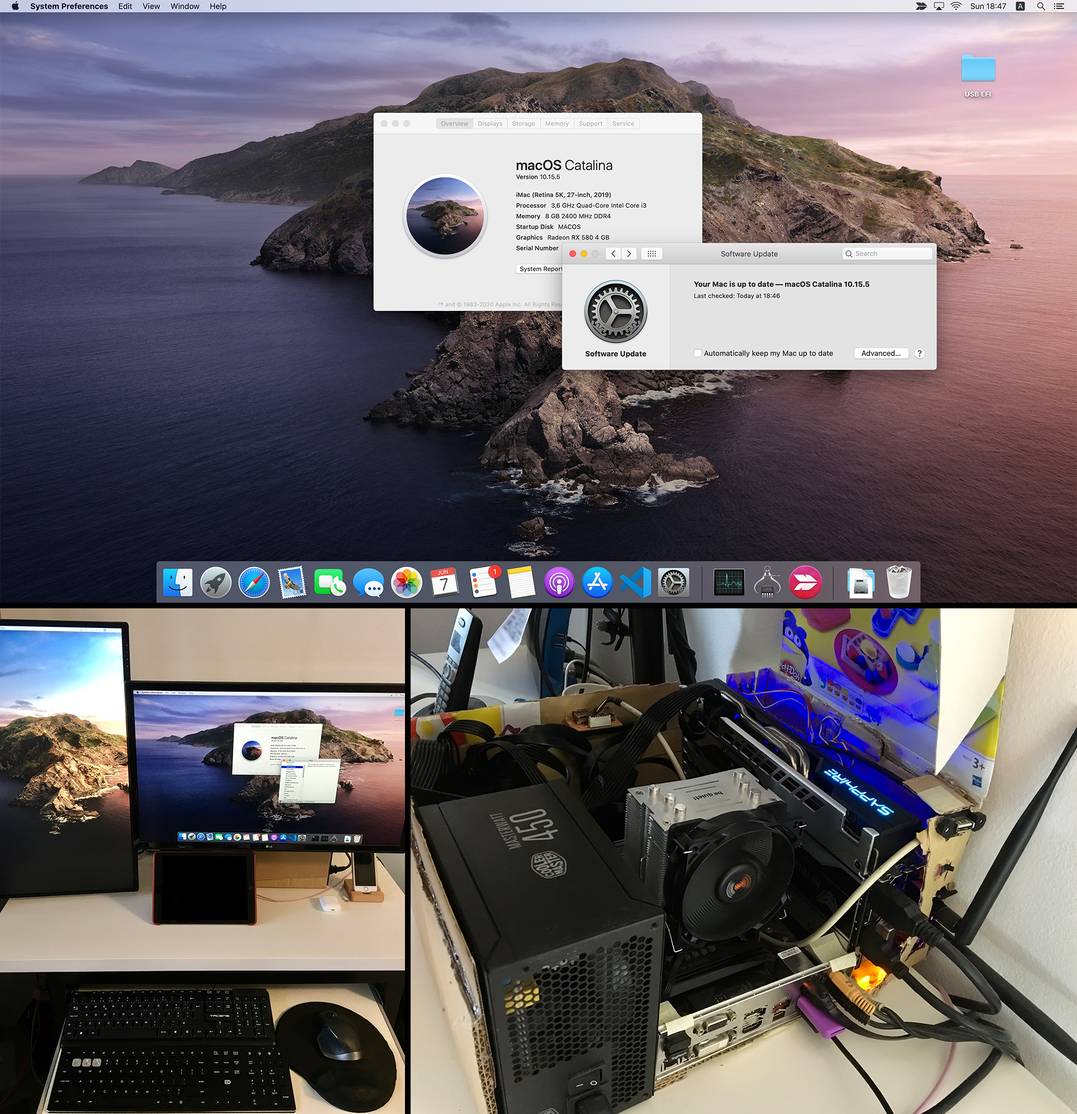
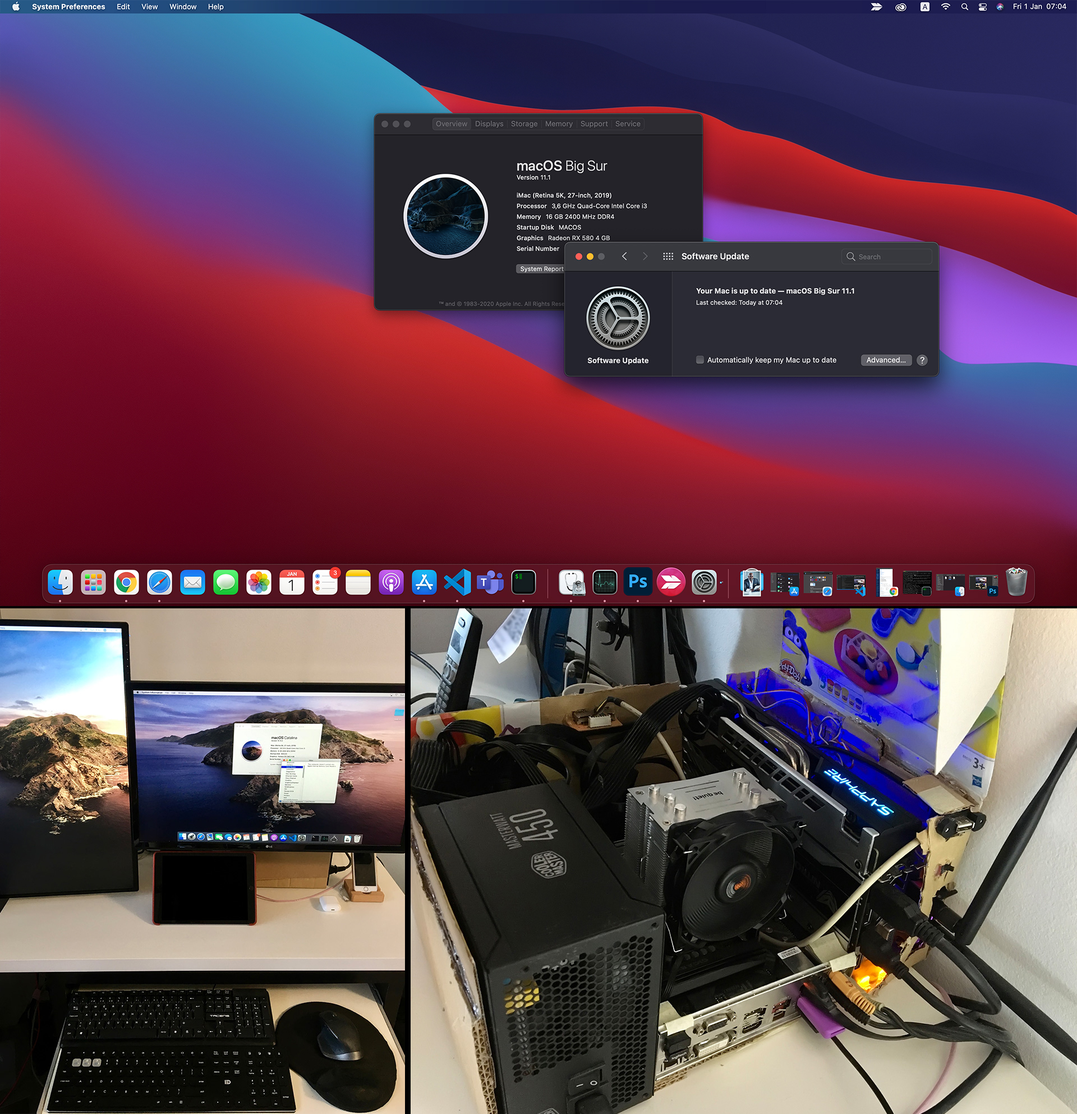
updated bigsur

diff --git a/README.md b/README.md
@@ -1,4 +1,4 @@
-# Hackintosh-Catalina-Gigabyte-B360M-D3H-i3-8100-RX580-BCM943602CS-4K-monitor-OpenCore
+# Hackintosh-Big-Sur-Gigabyte-B360M-D3H-i3-8100-RX580-BCM943602CS-4K-monitor-OpenCore
 
 ## *NOTE: This is a work in progress*
 
@@ -73,7 +73,6 @@ Follow the guide https://dortania.github.io/OpenCore-Desktop-Guide/
     │       
     ├───Drivers
     │       AudioDxe.efi
-    │       CrScreenshotDxe.efi
     │       HfsPlus.efi
     │       OpenRuntime.efi
     │       
@@ -153,11 +152,19 @@ Follow the guide https://dortania.github.io/OpenCore-Desktop-Guide/
 ### Bios Settings
 [Check this file](BIOS.md)
 
+## Updates
+
 ### OpenCore 0.5.9 to 0.6.0 update
 - Backup your EFI folder on a USB flash drive
 - Follow the instructions on the official guide: https://dortania.github.io/OpenCore-Post-Install/universal/update.html#updating-opencore
 - Compare the config.plist with the sample.plist and configure it accordingly. Note that you need to remove the `BlacklistAppleUpdate` key because it's deprecated and it trigger a warning
 - Reboot and check for the system stability
+
+### OpenCore 0.6.0 to 0.6.4 update (NEW)
+- Backup your EFI folder on a USB flash drive
+- Follow the instructions on the official guide: https://dortania.github.io/OpenCore-Post-Install/universal/update.html#updating-opencore
+- Compare the config.plist with the sample.plist and configure it accordingly. Use the validator to check for errors.
+- Reboot and check for the system stability (after that backup again your EFI folder)
 
 ### macOS 10.15.6 update
 - Update OpenCore to the latest version
@@ -167,6 +174,19 @@ Follow the guide https://dortania.github.io/OpenCore-Desktop-Guide/
 - The update can take more than 15 minutes
 - The system will reboot automatically and then boot normally on the OpenCore boot manager
 - After a longer boot process, you will be asked to introduce your iCloud password and then you can log in normally
+- Restart the system to check for any problems on the boot loader
+- Done (it was easier than I thought)!
+
+### macOS 10.15.6 to 11.1 Big Sur upgrade (NEW)
+- Update OpenCore to the latest version (at the time was 0.6.4)
+- Prepare your USB boot drive (if you want you can use the older drive with EFI folder and the macOS catalina installer)
+- Upgrade macOS from the system menu (as in a normal system)
+- The system will start the update and it will restart automatically (wait a few minutes)
+- When the system restarts, choose on the OpenCore boot manager the new option to Install macOS
+- The update can take more than 30 minutes
+- I had an issue with the displayPort Screen, so I disconnected that monitor and used only the HDMI one
+- I had only a system freeze during the installation (had to hard shutdown the system)
+- Copy the backup of the EFI folder to your new blank EFI folder
 - Restart the system to check for any problems on the boot loader
 - Done (it was easier than I thought)!
 
